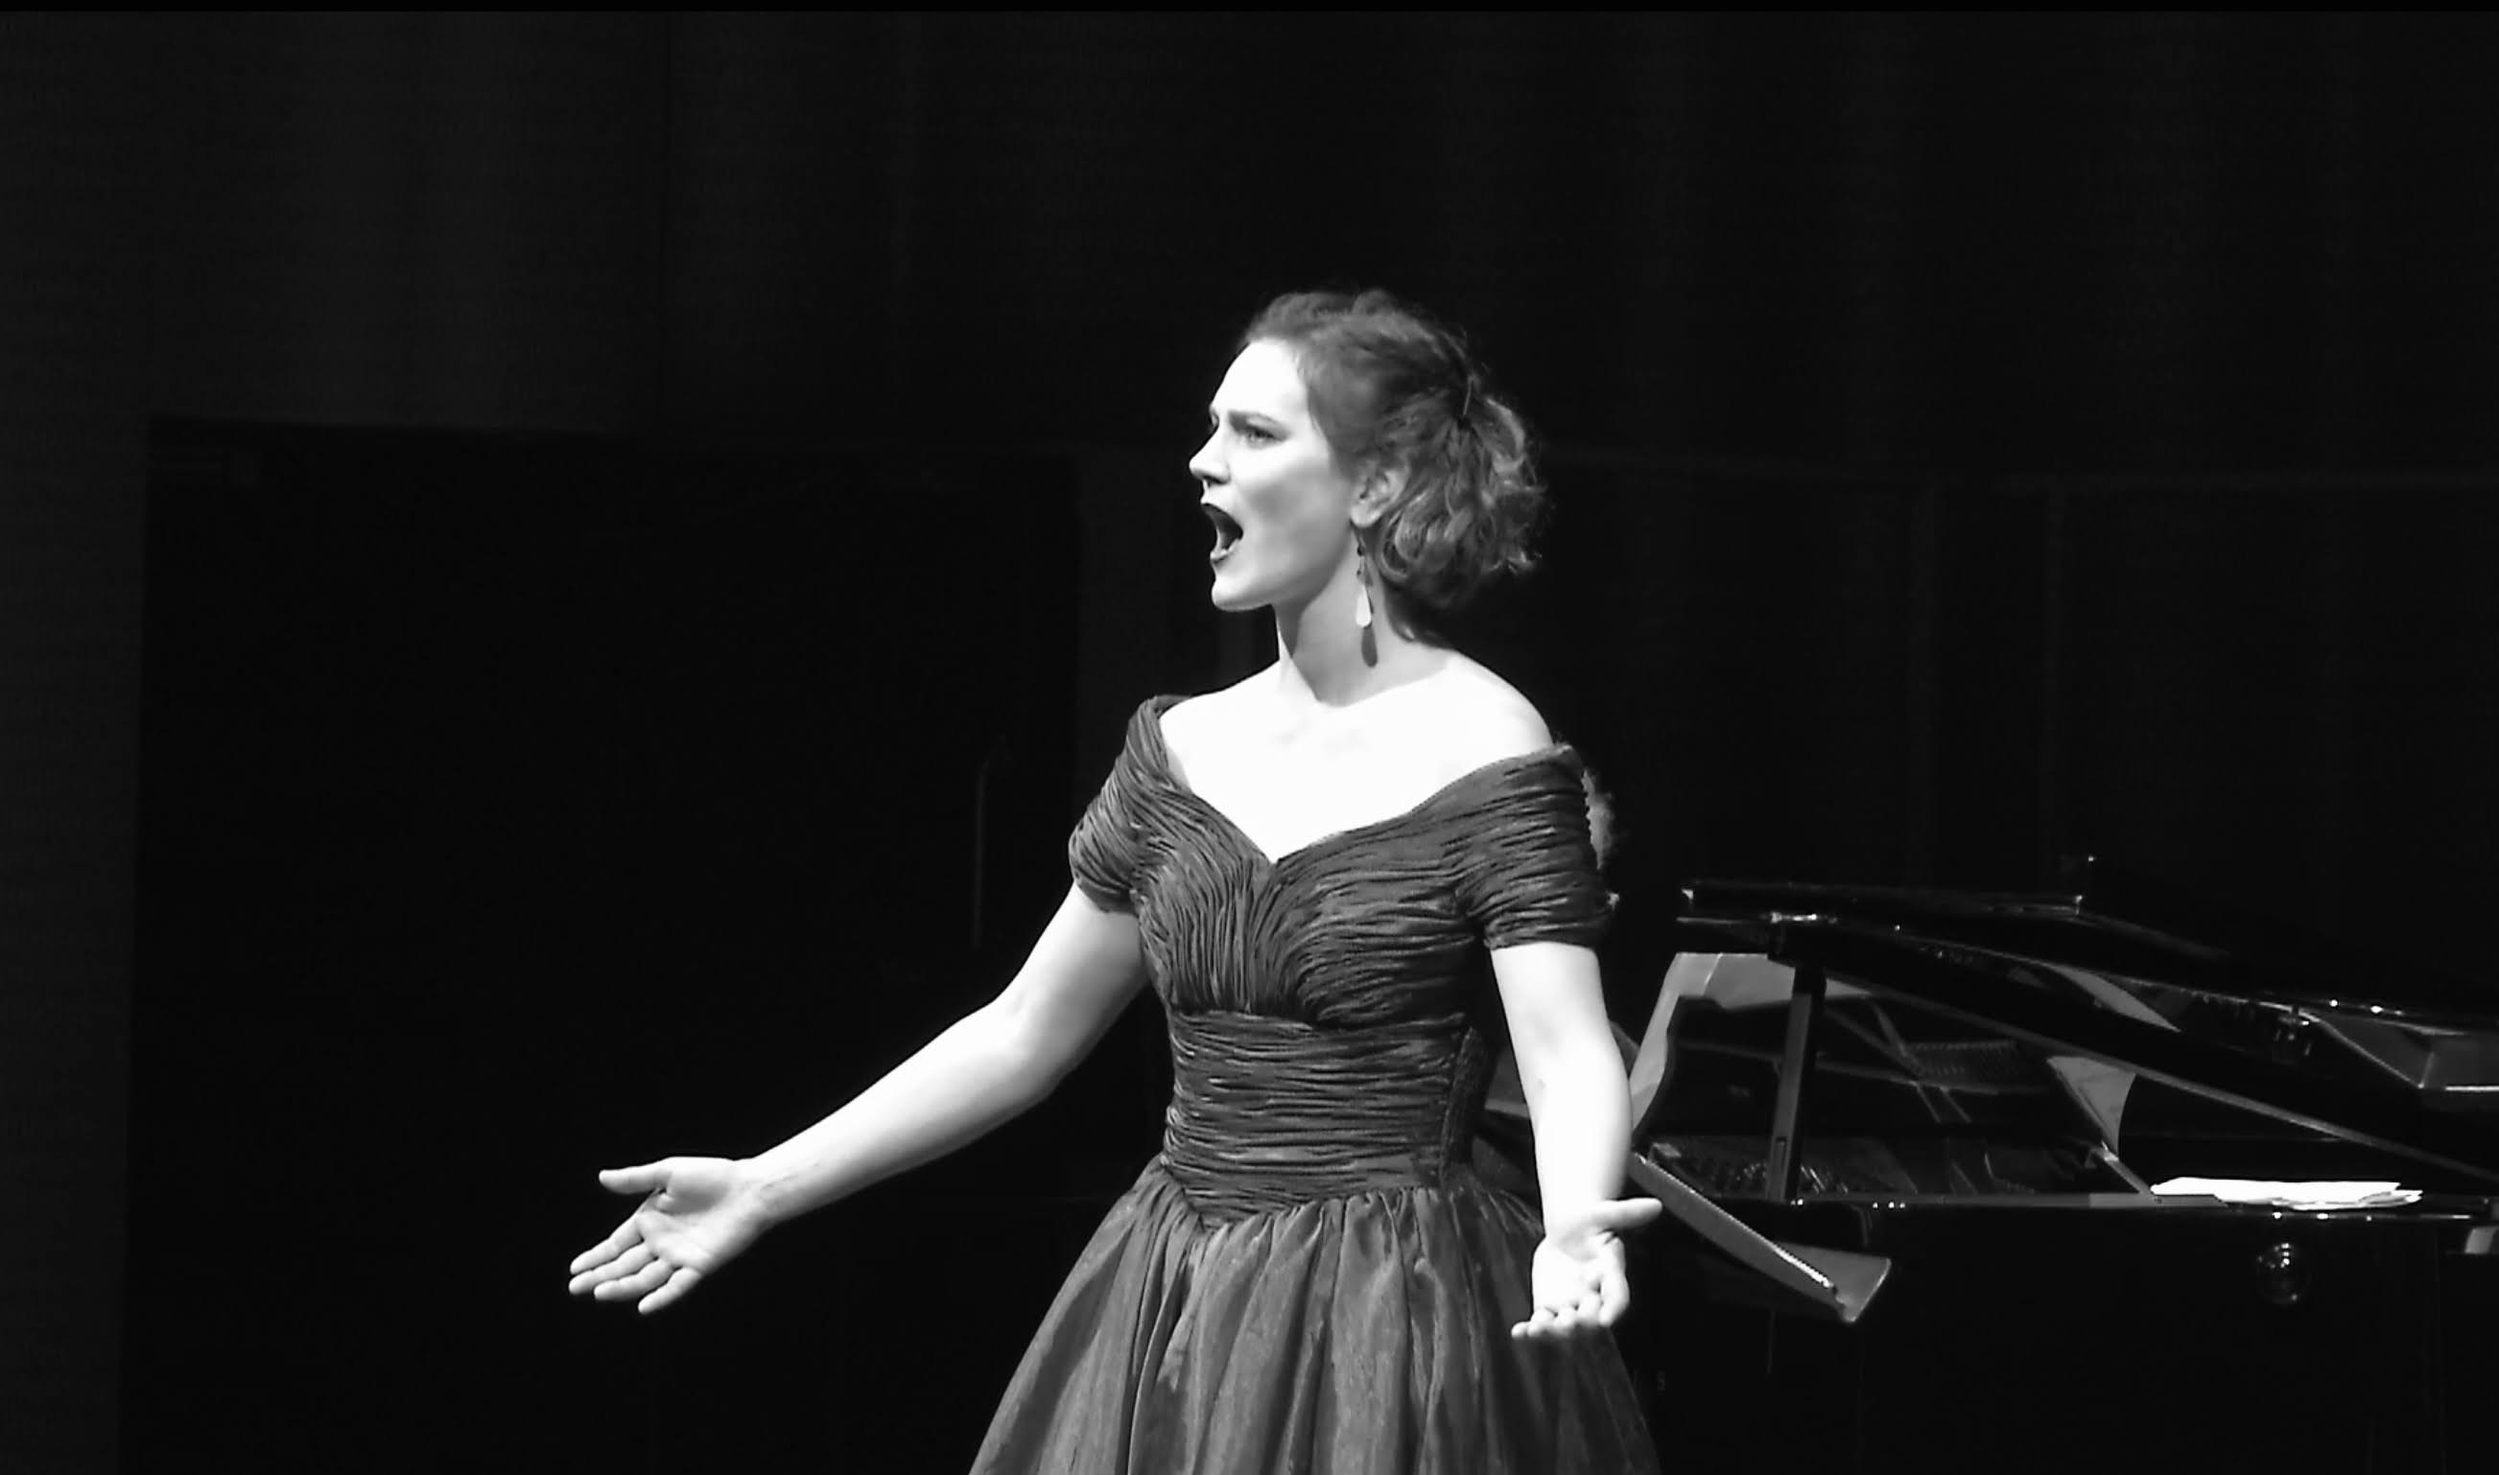
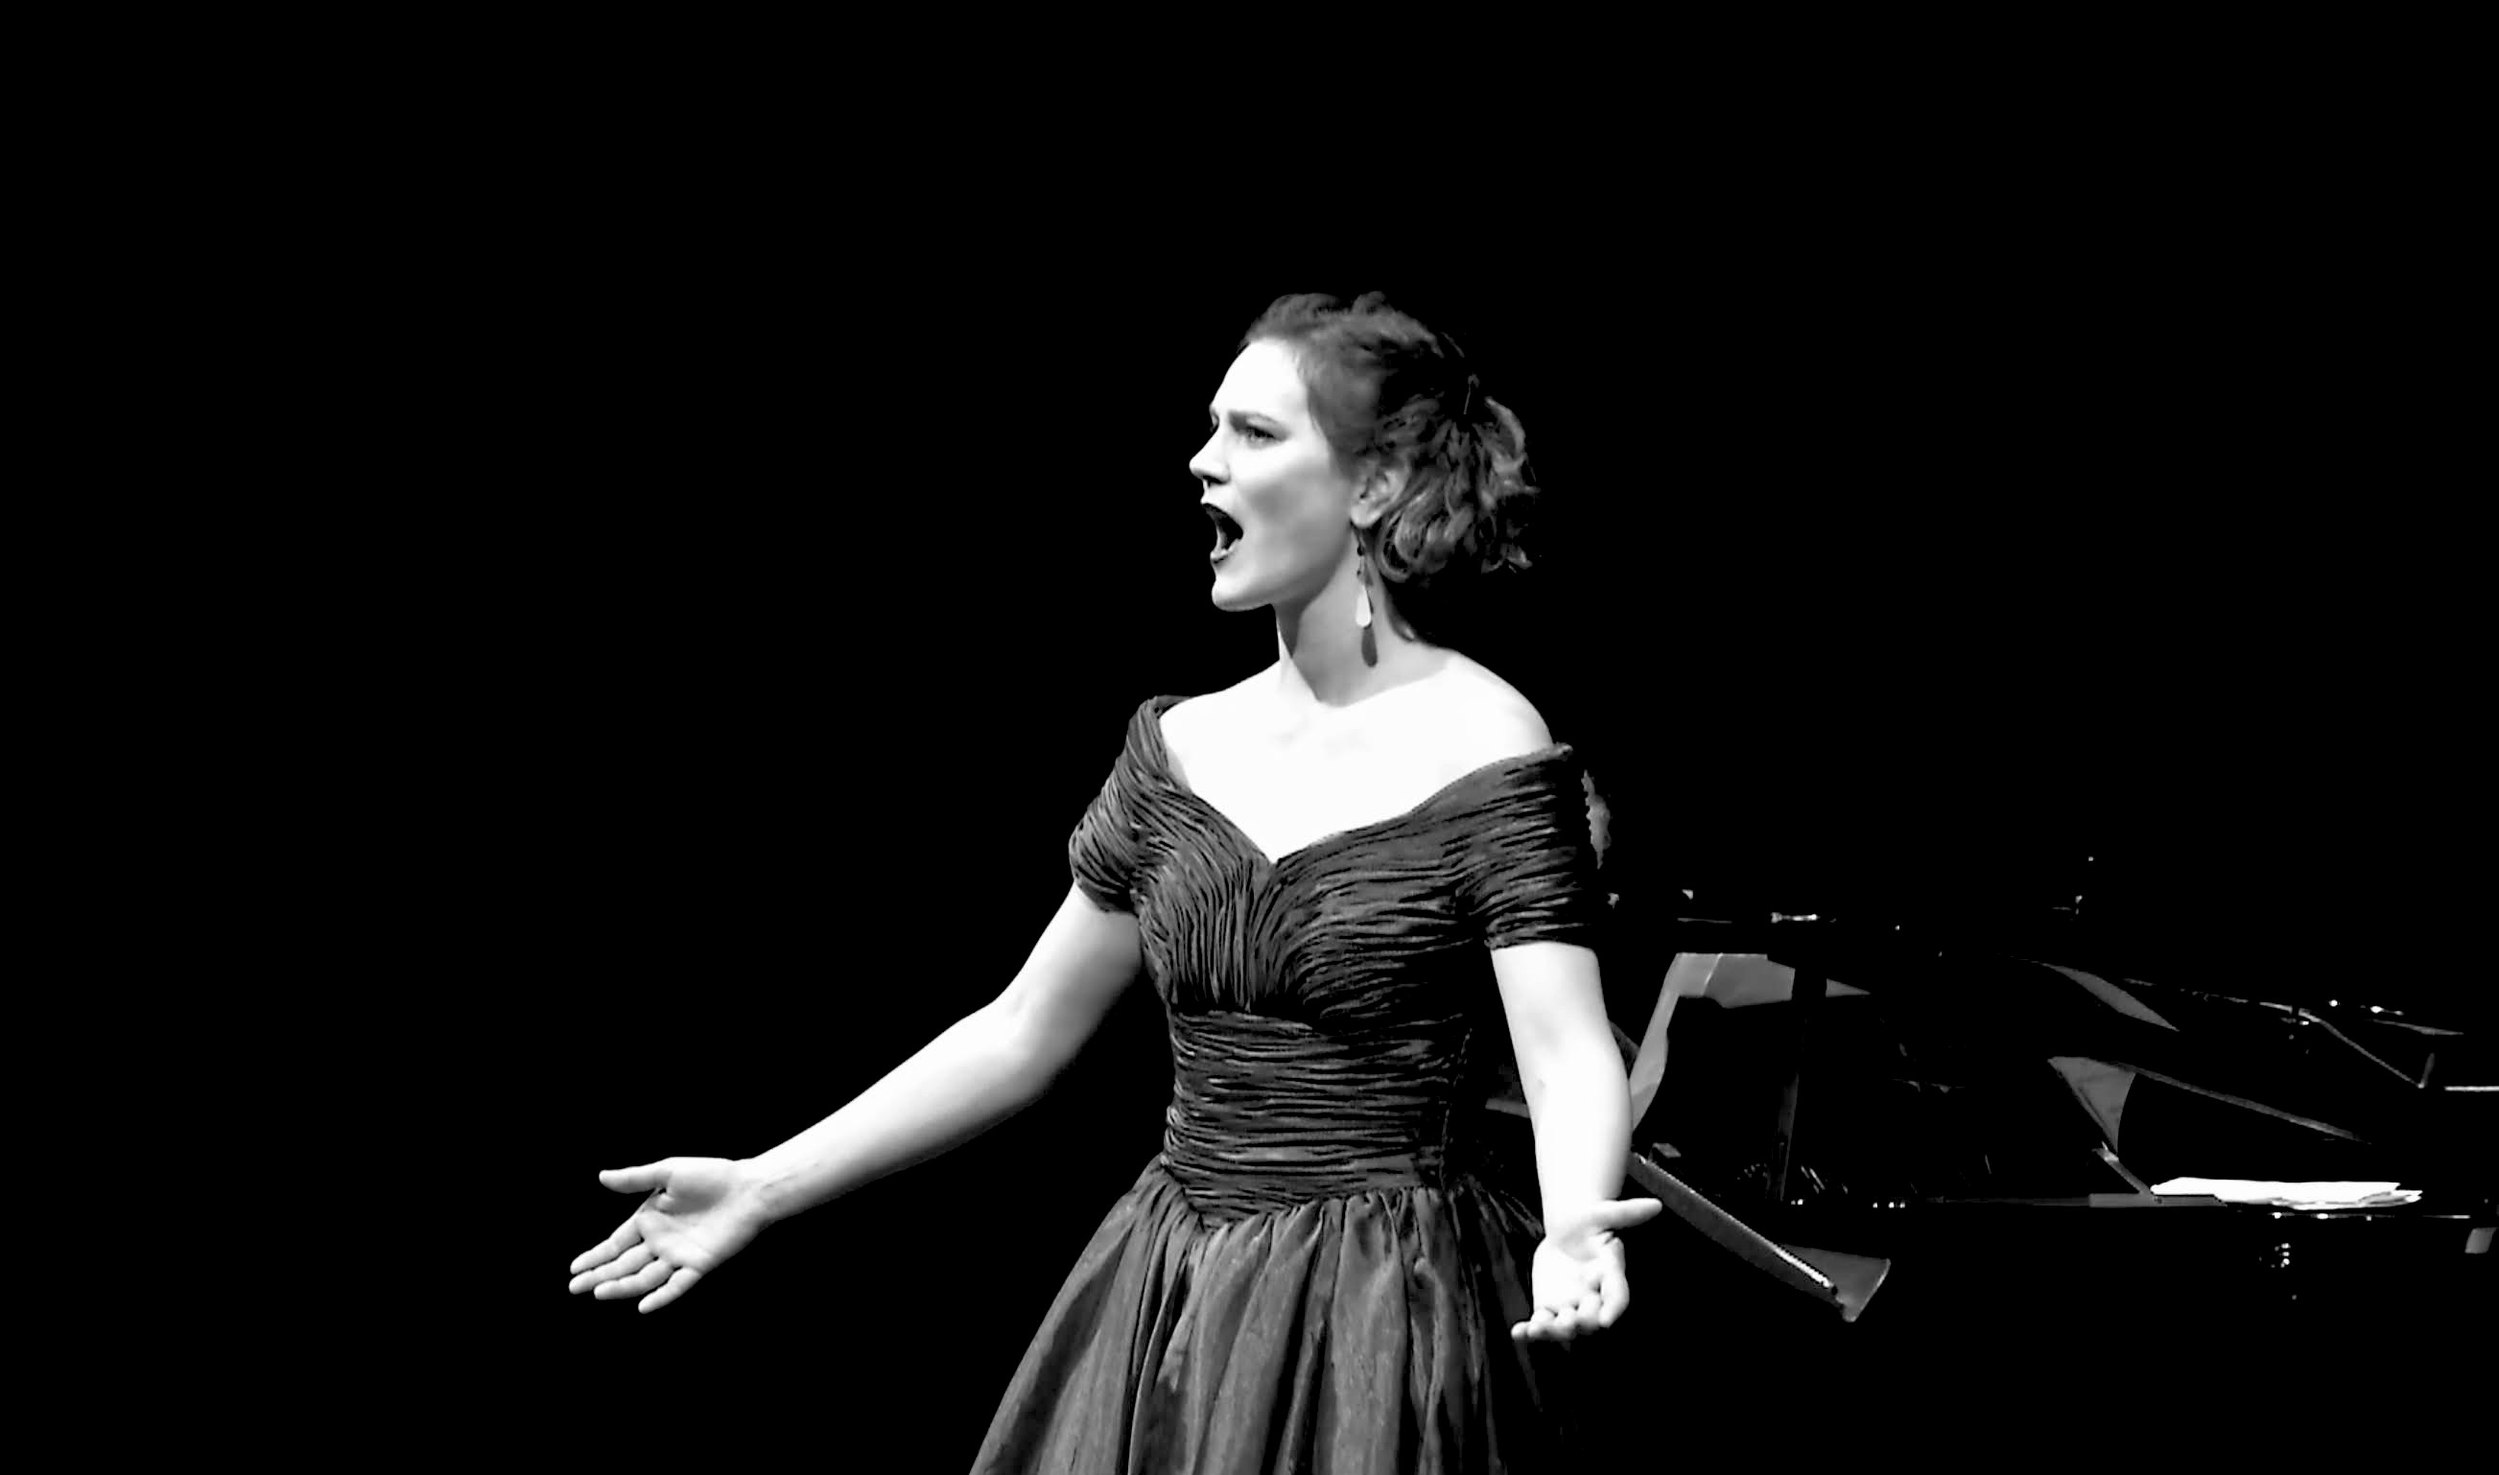
background to bea

diff --git a/assets/css/style.css b/assets/css/style.css
@@ -277,7 +277,7 @@ h1, h2, h3, h4, h5, h6 {
 #hero {
   width: 100%;
   height: 75vh;
-  background: url("../img/notes-bg.jpg") top center;
+  background: url("../img/bea-bg.jpg") top center;
   background-size: cover;
   padding: 0 15px;
 }
